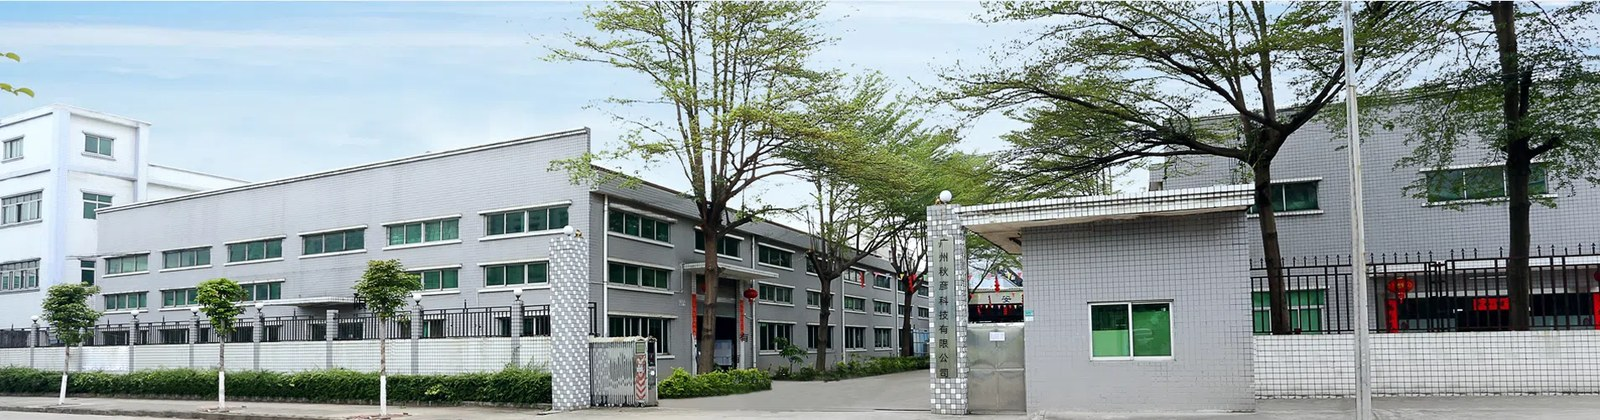
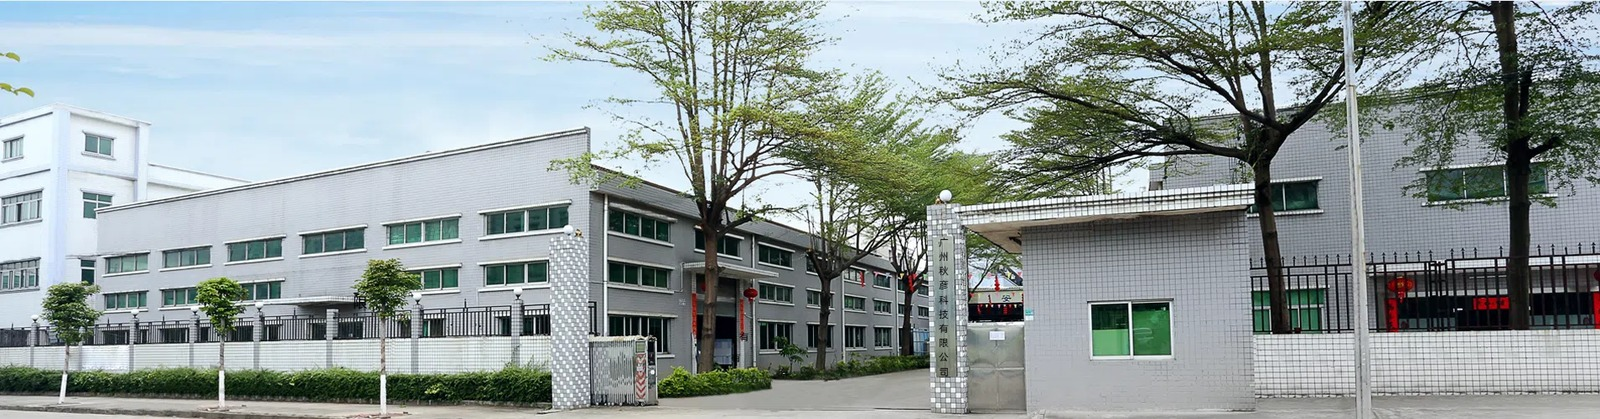
V49.9: dropdown z-50 fix, stronger glacier, re-replace company image, hide factory thumbnails, birds left-to-right, blog/faq/contact card colors

diff --git a/src/app/globals.css b/src/app/globals.css
@@ -84,6 +84,16 @@ input[type='number']::-webkit-inner-spin-button {
     @apply rounded-2xl border border-slate-200 bg-white p-6 shadow-soft transition duration-300 hover:-translate-y-1 hover:shadow-lift;
   }
 
+  /* V49.9⑥: FAQ cards colour-coded by category. --accent is set inline per
+     card; the left border carries the hue and the hover tint pulls from it. */
+  .faq-accent-card {
+    border-left: 4px solid var(--accent, #22d3ee);
+  }
+  .faq-accent-card:hover {
+    background: color-mix(in srgb, var(--accent, #22d3ee) 10%, white);
+    border-color: color-mix(in srgb, var(--accent, #22d3ee) 45%, white);
+  }
+
   /* Light glass surface — subtle frosted panel on light backgrounds */
   .glass-card {
     @apply relative rounded-2xl border border-slate-200 bg-white/70 p-6 shadow-soft backdrop-blur;
@@ -1311,7 +1321,7 @@ input[type='number']::-webkit-inner-spin-button {
   animation: glacierAurora 18s ease-in-out infinite alternate;
 }
 @keyframes glacierAurora {
-  0%   { opacity: 0.9; transform: translateX(-6%) skewX(-4deg) scale(1.04); }
+  0%   { opacity: 1; transform: translateX(-6%) skewX(-4deg) scale(1.04); }
   100% { opacity: 1; transform: translateX(6%) skewX(4deg) scale(1.10); }
 }
 
@@ -1320,23 +1330,30 @@ input[type='number']::-webkit-inner-spin-button {
   content: '';
   position: absolute;
   inset: 0;
-  opacity: 0.20;  /* V49.5: stronger cracked-ice texture */
+  opacity: 0.34;  /* V49.9②: STRONGER cracked-ice texture */
   background:
     repeating-conic-gradient(
       from 45deg at 20% 30%,
-      rgba(255,255,255,0.5) 0deg 90deg,
+      rgba(255,255,255,0.55) 0deg 90deg,
       transparent 90deg 180deg
     ),
     repeating-conic-gradient(
       from -30deg at 70% 60%,
-      rgba(34,211,238,0.28) 0deg 120deg,
+      rgba(34,211,238,0.34) 0deg 120deg,
       transparent 120deg 240deg
     ),
     repeating-conic-gradient(
       from 15deg at 50% 80%,
-      rgba(165,243,252,0.20) 0deg 80deg,
+      rgba(165,243,252,0.26) 0deg 80deg,
       transparent 80deg 160deg
-    );
+    ),
+    /* V49.9②: fine hairline fracture lines — crisper ice-crystal read */
+    repeating-linear-gradient(118deg,
+      rgba(255,255,255,0) 0px, rgba(255,255,255,0) 22px,
+      rgba(255,255,255,0.22) 23px, rgba(255,255,255,0) 25px),
+    repeating-linear-gradient(62deg,
+      rgba(186,230,253,0) 0px, rgba(186,230,253,0) 30px,
+      rgba(186,230,253,0.18) 31px, rgba(186,230,253,0) 33px);
   mix-blend-mode: overlay;
 }
 
@@ -1367,19 +1384,19 @@ input[type='number']::-webkit-inner-spin-button {
 .glacier__ray {
   position: absolute;
   width: 220%;
-  height: 5px;  /* V49.5: thicker, brighter beam */
+  height: 6px;  /* V49.9②: thicker, brighter beam */
   left: -60%;
   top: 40%;
   background: linear-gradient(
     90deg,
     transparent 0%,
-    rgba(255, 255, 255, 0.45) 14%,
-    rgba(165, 243, 252, 0.78) 40%,
-    rgba(255, 255, 255, 0.55) 60%,
-    rgba(103, 232, 249, 0.40) 80%,
+    rgba(255, 255, 255, 0.6) 12%,
+    rgba(165, 243, 252, 0.92) 38%,
+    rgba(255, 255, 255, 0.7) 60%,
+    rgba(103, 232, 249, 0.55) 82%,
     transparent 100%
   );
-  filter: blur(2px);
+  filter: blur(3px) drop-shadow(0 0 6px rgba(165, 243, 252, 0.5));
   transform: rotate(25deg);
   animation: glacierRay 14s ease-in-out infinite alternate;
 }
@@ -1703,8 +1720,11 @@ input[type='number']::-webkit-inner-spin-button {
   animation-delay: var(--bird-delay, 0s);
 }
 .cta-bird__inner {
-  animation: birdFlyY 3s ease-in-out infinite;
   transform-origin: center;
+  /* V49.9⑤: replaced the up-down float (birdFlyY) with a gentle WING-FLAP so
+     the birds clearly travel LEFT→RIGHT (outer .cta-bird birdFlyX) instead of
+     appearing to bob in place. */
+  animation: birdFlap 0.9s ease-in-out infinite;
 }
 .cta-bird svg { display: block; width: 100%; height: 100%; }
 /* V49.7: deeper slate + white halo so birds read clearly on the blue sky. */
@@ -1716,14 +1736,16 @@ input[type='number']::-webkit-inner-spin-button {
   from { transform: translateX(-12vw); }
   to   { transform: translateX(112vw); }
 }
-@keyframes birdFlyY {
-  0%, 100% { transform: translateY(6px); }
-  50%      { transform: translateY(-9px); }
+@keyframes birdFlap {
+  0%, 100% { transform: scaleY(1) rotate(0deg); }
+  50%      { transform: scaleY(0.82) rotate(-2deg); }
 }
 @media (prefers-reduced-motion: reduce) {
   /* V49.8: birds stay VISIBLE (static, spread across the sky) under reduced
      motion — the stakeholder explicitly wants them. Do NOT hide. */
   .cta-bird { animation: none !important; left: 34%; }
+  /* V49.9⑤: also stop the wing-flap so birds are fully static under reduced motion. */
+  .cta-bird__inner { animation: none !important; }
 }
 
 /* ---- R1 / R4 / R8: reduced-motion — keep layout, drop motion ---- */

diff --git a/src/components/faq/FaqAccordion.tsx b/src/components/faq/FaqAccordion.tsx
@@ -1,6 +1,6 @@
 'use client';
 
-import { useState } from 'react';
+import { useState, type CSSProperties } from 'react';
 import Link from 'next/link';
 import { ChevronDown, HelpCircle, MessageCircle } from 'lucide-react';
 import { useLocale } from '@/lib/i18n';
@@ -14,6 +14,14 @@ import IconTile from '@/components/ui/IconTile';
  * drives which group is shown. Selected group renders as a clean accordion of
  * frosted cards. "All" shows every question in one scrollable column.
  */
+/** V49.9⑥: per-category accent colours so the FAQ cards read as colour-coded
+ *  groups rather than a wall of identical white cards. */
+const CAT_ACCENT: Record<string, { from: string; to: string; border: string; chipBg: string; chipText: string }> = {
+  general:         { from: '#22d3ee', to: '#0891b2', border: '#06b6d4', chipBg: 'bg-cyan-50',   chipText: 'text-cyan-700' },
+  technical:       { from: '#a78bfa', to: '#6d28d9', border: '#7c3aed', chipBg: 'bg-violet-50', chipText: 'text-violet-700' },
+  'order-support': { from: '#2dd4bf', to: '#0f766e', border: '#0d9488', chipBg: 'bg-teal-50',  chipText: 'text-teal-700' },
+};
+
 export default function FaqAccordion() {
   const { t, locale } = useLocale();
   const [active, setActive] = useState<string>('all');
@@ -73,11 +81,13 @@ export default function FaqAccordion() {
 
         {/* Questions */}
         <div className="mx-auto mt-10 max-w-3xl">
-          {visibleCats.map((cat) => (
+          {visibleCats.map((cat) => {
+            const accent = CAT_ACCENT[cat.id] ?? CAT_ACCENT.general;
+            return (
             <section key={cat.id} className={active === 'all' ? 'mb-10' : ''}>
               {active === 'all' && (
                 <h2 className="mb-4 flex items-center gap-2 text-lg font-bold text-ink-900">
-                  <span className="h-5 w-1.5 rounded-full bg-cyan-500" />
+                  <span className="h-5 w-1.5 rounded-full" style={{ background: accent.border }} />
                   {localized(cat.title, locale)}
                 </h2>
               )}
@@ -87,9 +97,10 @@ export default function FaqAccordion() {
                   return (
                     <RevealOnScroll key={idx} delay={idx * 60} className="h-full">
                     <div
-                      className="pro-card relative overflow-hidden rounded-2xl border bg-white/80 backdrop-blur-sm transition hover:-translate-y-0.5 hover:border-cyan-200 hover:bg-cyan-50/40 hover:shadow-md"
+                      className="pro-card faq-accent-card relative overflow-hidden rounded-2xl border border-white/70 bg-white/80 backdrop-blur-sm transition hover:-translate-y-0.5 hover:shadow-md"
+                      style={{ ['--accent' as string]: accent.from } as CSSProperties}
                     >
-                      <span className="absolute inset-x-0 top-0 z-20 h-1 bg-gradient-to-r from-brand-400 to-brand-700" />
+                      <span className="absolute inset-x-0 top-0 z-20 h-1" style={{ background: `linear-gradient(to right, ${accent.from}, ${accent.to})` }} />
                       <button
                           type="button"
                           onClick={() => toggle(cat.id, idx)}
@@ -97,7 +108,7 @@ export default function FaqAccordion() {
                           className="flex w-full items-center justify-between gap-4 rounded-xl px-5 py-4 text-start outline-none focus-visible:ring-2 focus-visible:ring-brand-400 focus-visible:ring-offset-2"
                         >
                           <span className="flex items-center gap-3 text-base font-semibold text-ink-900">
-                            <IconTile icon={HelpCircle} className="h-4 w-4" tileClassName="bg-cyan-50 text-cyan-700 p-1.5" />
+                            <IconTile icon={HelpCircle} className="h-4 w-4" tileClassName={`${accent.chipBg} ${accent.chipText} p-1.5`} />
                             {localized(item.question, locale)}
                           </span>
                           <ChevronDown
@@ -125,7 +136,8 @@ export default function FaqAccordion() {
                 })}
               </div>
             </section>
-          ))}
+            );
+          })}
         </div>
 
         {/* Contact CTA */}

diff --git a/src/components/blog/BlogCard.tsx b/src/components/blog/BlogCard.tsx
@@ -1,5 +1,6 @@
 'use client';
 
+import type { CSSProperties } from 'react';
 import Link from 'next/link';
 import { CalendarDays, ArrowUpRight } from 'lucide-react';
 import { useLocale } from '@/lib/i18n';
@@ -21,22 +22,33 @@ function formatDate(iso: string, locale: string): string {
   }
 }
 
-export default function BlogCard({ post }: { post: BlogPost }) {
+/** V49.9⑥: cycle a brand palette across blog cards so the grid isn't a single
+ *  uniform ocean-blue — each card gets its own top bar / glow / pill hue. */
+const BLOG_ACCENTS = [
+  { from: '#22d3ee', to: '#0891b2' }, // cyan
+  { from: '#818cf8', to: '#4338ca' }, // indigo
+  { from: '#2dd4bf', to: '#0f766e' }, // teal
+  { from: '#f0abfc', to: '#a21caf' }, // fuchsia
+  { from: '#38bdf8', to: '#0369a1' }, // sky
+];
+
+export default function BlogCard({ post, index = 0 }: { post: BlogPost; index?: number }) {
   const { locale, t } = useLocale();
+  const accent = BLOG_ACCENTS[index % BLOG_ACCENTS.length];
   const title = localized(post.title, locale);
   const excerpt = localized(post.excerpt, locale);
 
   return (
     <div className="relative h-full">
       {/* Soft ocean-brand glow behind the glass blog card */}
-      <div className="absolute -inset-1 rounded-2xl bg-gradient-to-br from-ocean-400 to-brand-600 opacity-20 blur-xl" aria-hidden="true" />
+      <div className="absolute -inset-1 rounded-2xl opacity-20 blur-xl" aria-hidden="true" style={{ background: `linear-gradient(to bottom right, ${accent.from}, ${accent.to})` }} />
       <OceanGlassCard depth="sm" hoverLift className="group relative z-10 h-full border border-ocean-200/50">
         <Link
           href={`/${locale}/blog/${post.slug}`}
           className="group/link relative flex h-full flex-col overflow-hidden rounded-2xl"
         >
           {/* Persistent ocean top accent bar — card memory point */}
-          <span className="absolute inset-x-0 top-0 z-20 h-1 rounded-t-2xl bg-gradient-to-r from-ocean-400 to-brand-600" />
+          <span className="absolute inset-x-0 top-0 z-20 h-1 rounded-t-2xl" style={{ background: `linear-gradient(to right, ${accent.from}, ${accent.to})` }} />
 
           <div className="relative aspect-video overflow-hidden bg-slate-100">
             <ImageWithRetry
@@ -55,7 +67,7 @@ export default function BlogCard({ post }: { post: BlogPost }) {
               {formatDate(post.publishedAt, locale)}
             </span>
             {/* Category tag — revealed on hover, same premium treatment */}
-            <span className="absolute bottom-3 start-3 inline-flex items-center gap-1.5 rounded-full border border-white/60 bg-white/90 px-3 py-1.5 text-xs font-semibold text-brand-700 opacity-0 shadow-sm backdrop-blur transition-opacity duration-300 group-hover:opacity-100">
+            <span className="absolute bottom-3 start-3 inline-flex items-center gap-1.5 rounded-full border border-white/60 bg-white/90 px-3 py-1.5 text-xs font-semibold opacity-0 shadow-sm backdrop-blur transition-opacity duration-300 group-hover:opacity-100" style={{ color: accent.to }}>
               {locale === 'zh' ? '博客' : locale === 'ar' ? 'المدونة' : 'Blog'}
             </span>
           </div>
@@ -68,7 +80,7 @@ export default function BlogCard({ post }: { post: BlogPost }) {
 
             <div className="mt-auto flex items-center justify-between pt-4">
               {/* Ocean primary "read more" pill — gently pulses on hover */}
-              <span className="inline-flex items-center gap-1 rounded-full bg-gradient-to-r from-ocean-500 to-brand-600 px-3 py-1.5 text-xs font-semibold text-white shadow-sm transition group-hover:animate-[pillPulse_1.6s_ease-in-out_infinite] group-hover:shadow-ocean">
+              <span className="inline-flex items-center gap-1 rounded-full px-3 py-1.5 text-xs font-semibold text-white shadow-sm transition group-hover:animate-[pillPulse_1.6s_ease-in-out_infinite] group-hover:shadow-ocean" style={{ background: `linear-gradient(to right, ${accent.from}, ${accent.to})` }}>
                 {t('blog.readMore')}
                 <ArrowUpRight className="h-3.5 w-3.5 transition-transform group-hover:translate-x-1 rtl:-scale-x-100 rtl:group-hover:-translate-x-1" strokeWidth={2.25} />
               </span>

diff --git a/src/app/[locale]/contact/ContactClient.tsx b/src/app/[locale]/contact/ContactClient.tsx
@@ -264,9 +264,9 @@ export default function ContactClient({
               />
             </div>
 
-            {/* Social media */}
-            <div className="pro-card relative overflow-hidden bg-gradient-to-br from-white to-cyan-50/30 p-6">
-              <span className="absolute inset-x-0 top-0 z-20 h-1 bg-gradient-to-r from-cyan-400 to-teal-600" />
+            {/* Social media — V49.9⑥: violet theme to differentiate from the cyan info card */}
+            <div className="pro-card relative overflow-hidden bg-gradient-to-br from-white to-violet-50/40 p-6">
+              <span className="absolute inset-x-0 top-0 z-20 h-1 bg-gradient-to-r from-violet-400 to-purple-600" />
               <h3 className="text-sm font-semibold uppercase tracking-wide text-ink-500">
                 {t('contact.connectWithUs')}
               </h3>
@@ -285,7 +285,7 @@ export default function ContactClient({
                       <IconTile
                         icon={Icon}
                         className="h-5 w-5"
-                        tileClassName="flex h-10 w-10 items-center justify-center rounded-full bg-cyan-50 text-cyan-700 transition hover:bg-cyan-600 hover:text-white"
+                        tileClassName="flex h-10 w-10 items-center justify-center rounded-full bg-violet-50 text-violet-700 transition hover:bg-violet-600 hover:text-white"
                       />
                     </a>
                   );

diff --git a/src/app/[locale]/about/AboutClient.tsx b/src/app/[locale]/about/AboutClient.tsx
@@ -1158,9 +1158,9 @@ export default function AboutClient({ sections }: { sections: AboutSection[] }) 
               drift, higher z-index so clouds don't bury them. Hidden under
               reduced-motion (birds are NOT brand ambient). */}
           {[
-            { top: '14%', size: 44, dur: 38, delay: 0 },
-            { top: '31%', size: 34, dur: 32, delay: -11 },
-            { top: '22%', size: 50, dur: 42, delay: -20 },
+            { top: '14%', size: 44, dur: 24, delay: 0 },
+            { top: '31%', size: 34, dur: 19, delay: -8 },
+            { top: '22%', size: 50, dur: 27, delay: -14 },
           ].map((b, i) => (
             <div
               key={`bird-${i}`}

diff --git a/src/components/about/FactoryShowcase.tsx b/src/components/about/FactoryShowcase.tsx
@@ -106,8 +106,9 @@ export default function FactoryShowcase() {
         </div>
       </div>
 
-      {/* Thumbnail navigation */}
-      <div className="no-scrollbar mt-5 flex gap-3 overflow-x-auto pb-1">
+      {/* Thumbnail navigation — V49.9④: hidden per request (the preview row
+          under the slideshow is no longer wanted). */}
+      <div className="no-scrollbar mt-5 hidden flex gap-3 overflow-x-auto pb-1">
         {FACTORY_IMAGES.map((src, i) => (
           <button
             key={src}

diff --git a/src/app/[locale]/blog/BlogListClient.tsx b/src/app/[locale]/blog/BlogListClient.tsx
@@ -90,7 +90,7 @@ export default function BlogListClient({ initial }: { initial: Paginated<BlogPos
         <div className="grid grid-cols-1 gap-6 md:grid-cols-2 lg:grid-cols-3">
           {data.map((post, i) => (
             <RevealOnScroll key={post.id} delay={(i % 9) * 60} className="h-full">
-              <BlogCard post={post} />
+              <BlogCard post={post} index={i} />
             </RevealOnScroll>
           ))}
         </div>

diff --git a/src/components/products/FilterBar.tsx b/src/components/products/FilterBar.tsx
@@ -76,7 +76,7 @@ export default function FilterBar({
   };
 
   return (
-    <OceanGlassCard ripple surface="glass" depth="lg" hoverLift={false} className="relative overflow-visible p-5">
+    <OceanGlassCard ripple surface="glass" depth="lg" hoverLift={false} className="relative z-50 overflow-visible p-5">
       {/* Ocean top accent bar — aligns with the ocean design system.
           NOTE: overflow-visible (not overflow-hidden) so the absolute category
           dropdown panel is NOT clipped by the card. The bar keeps rounded-t to